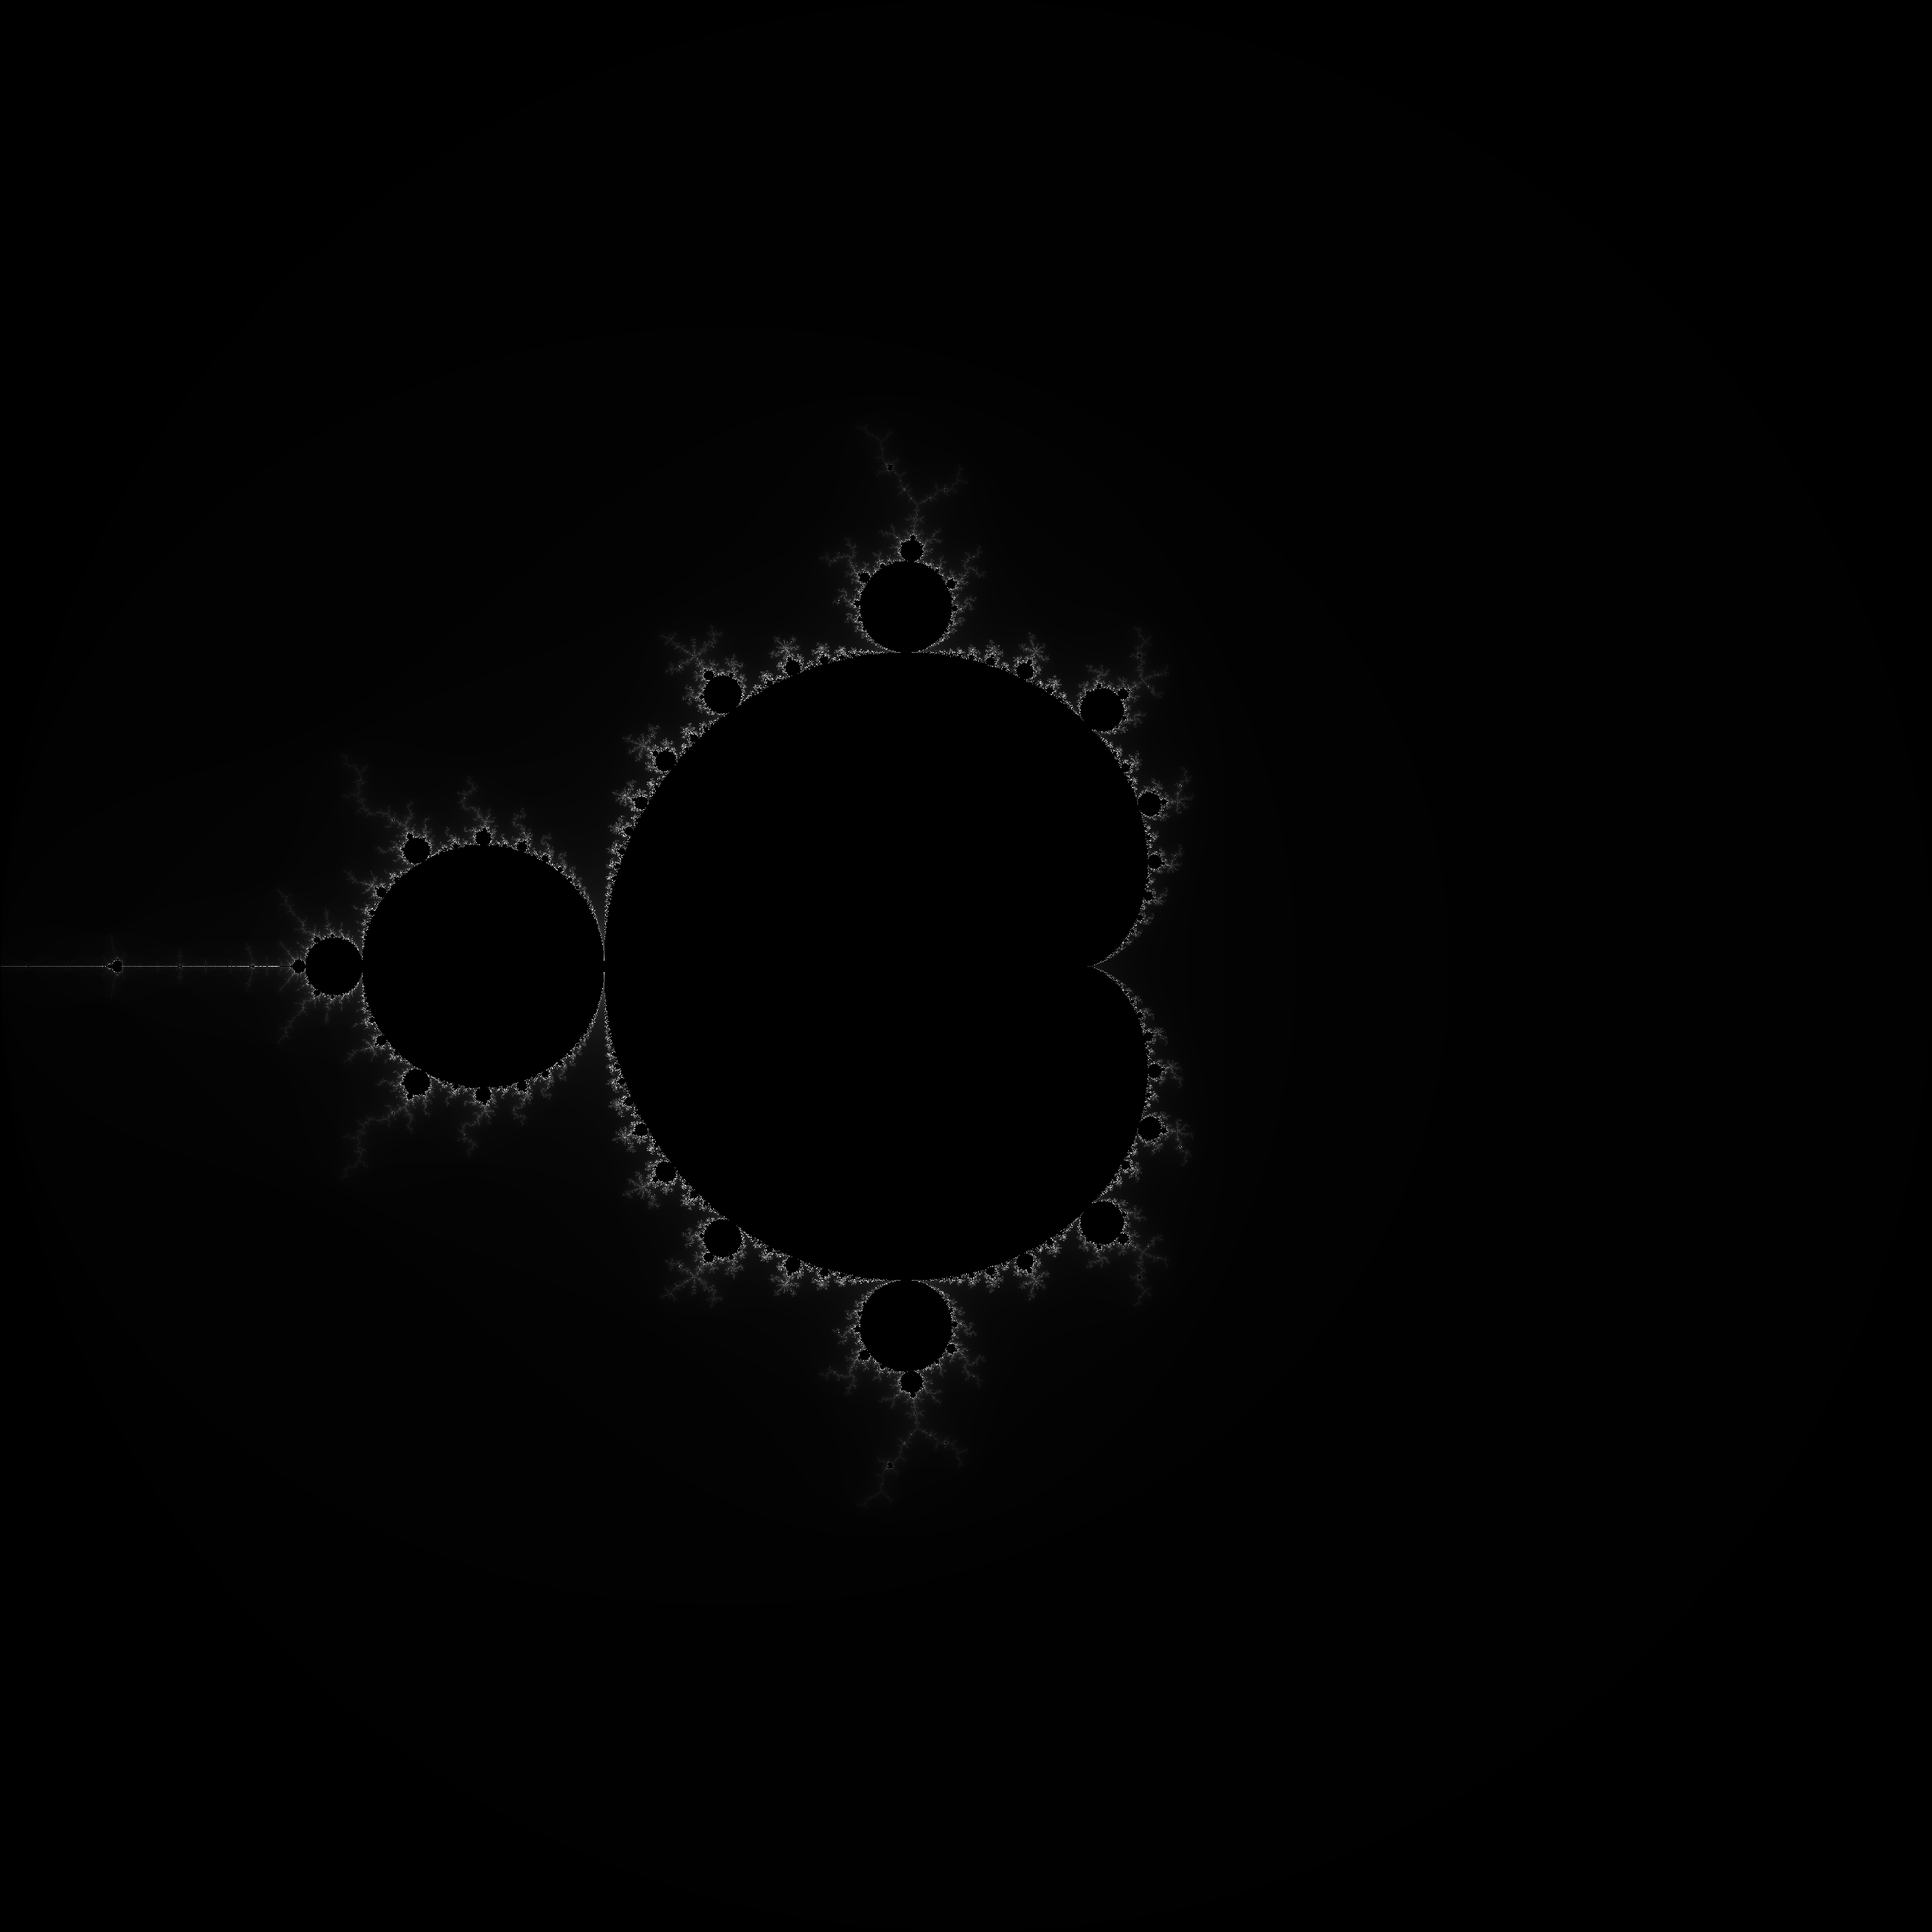
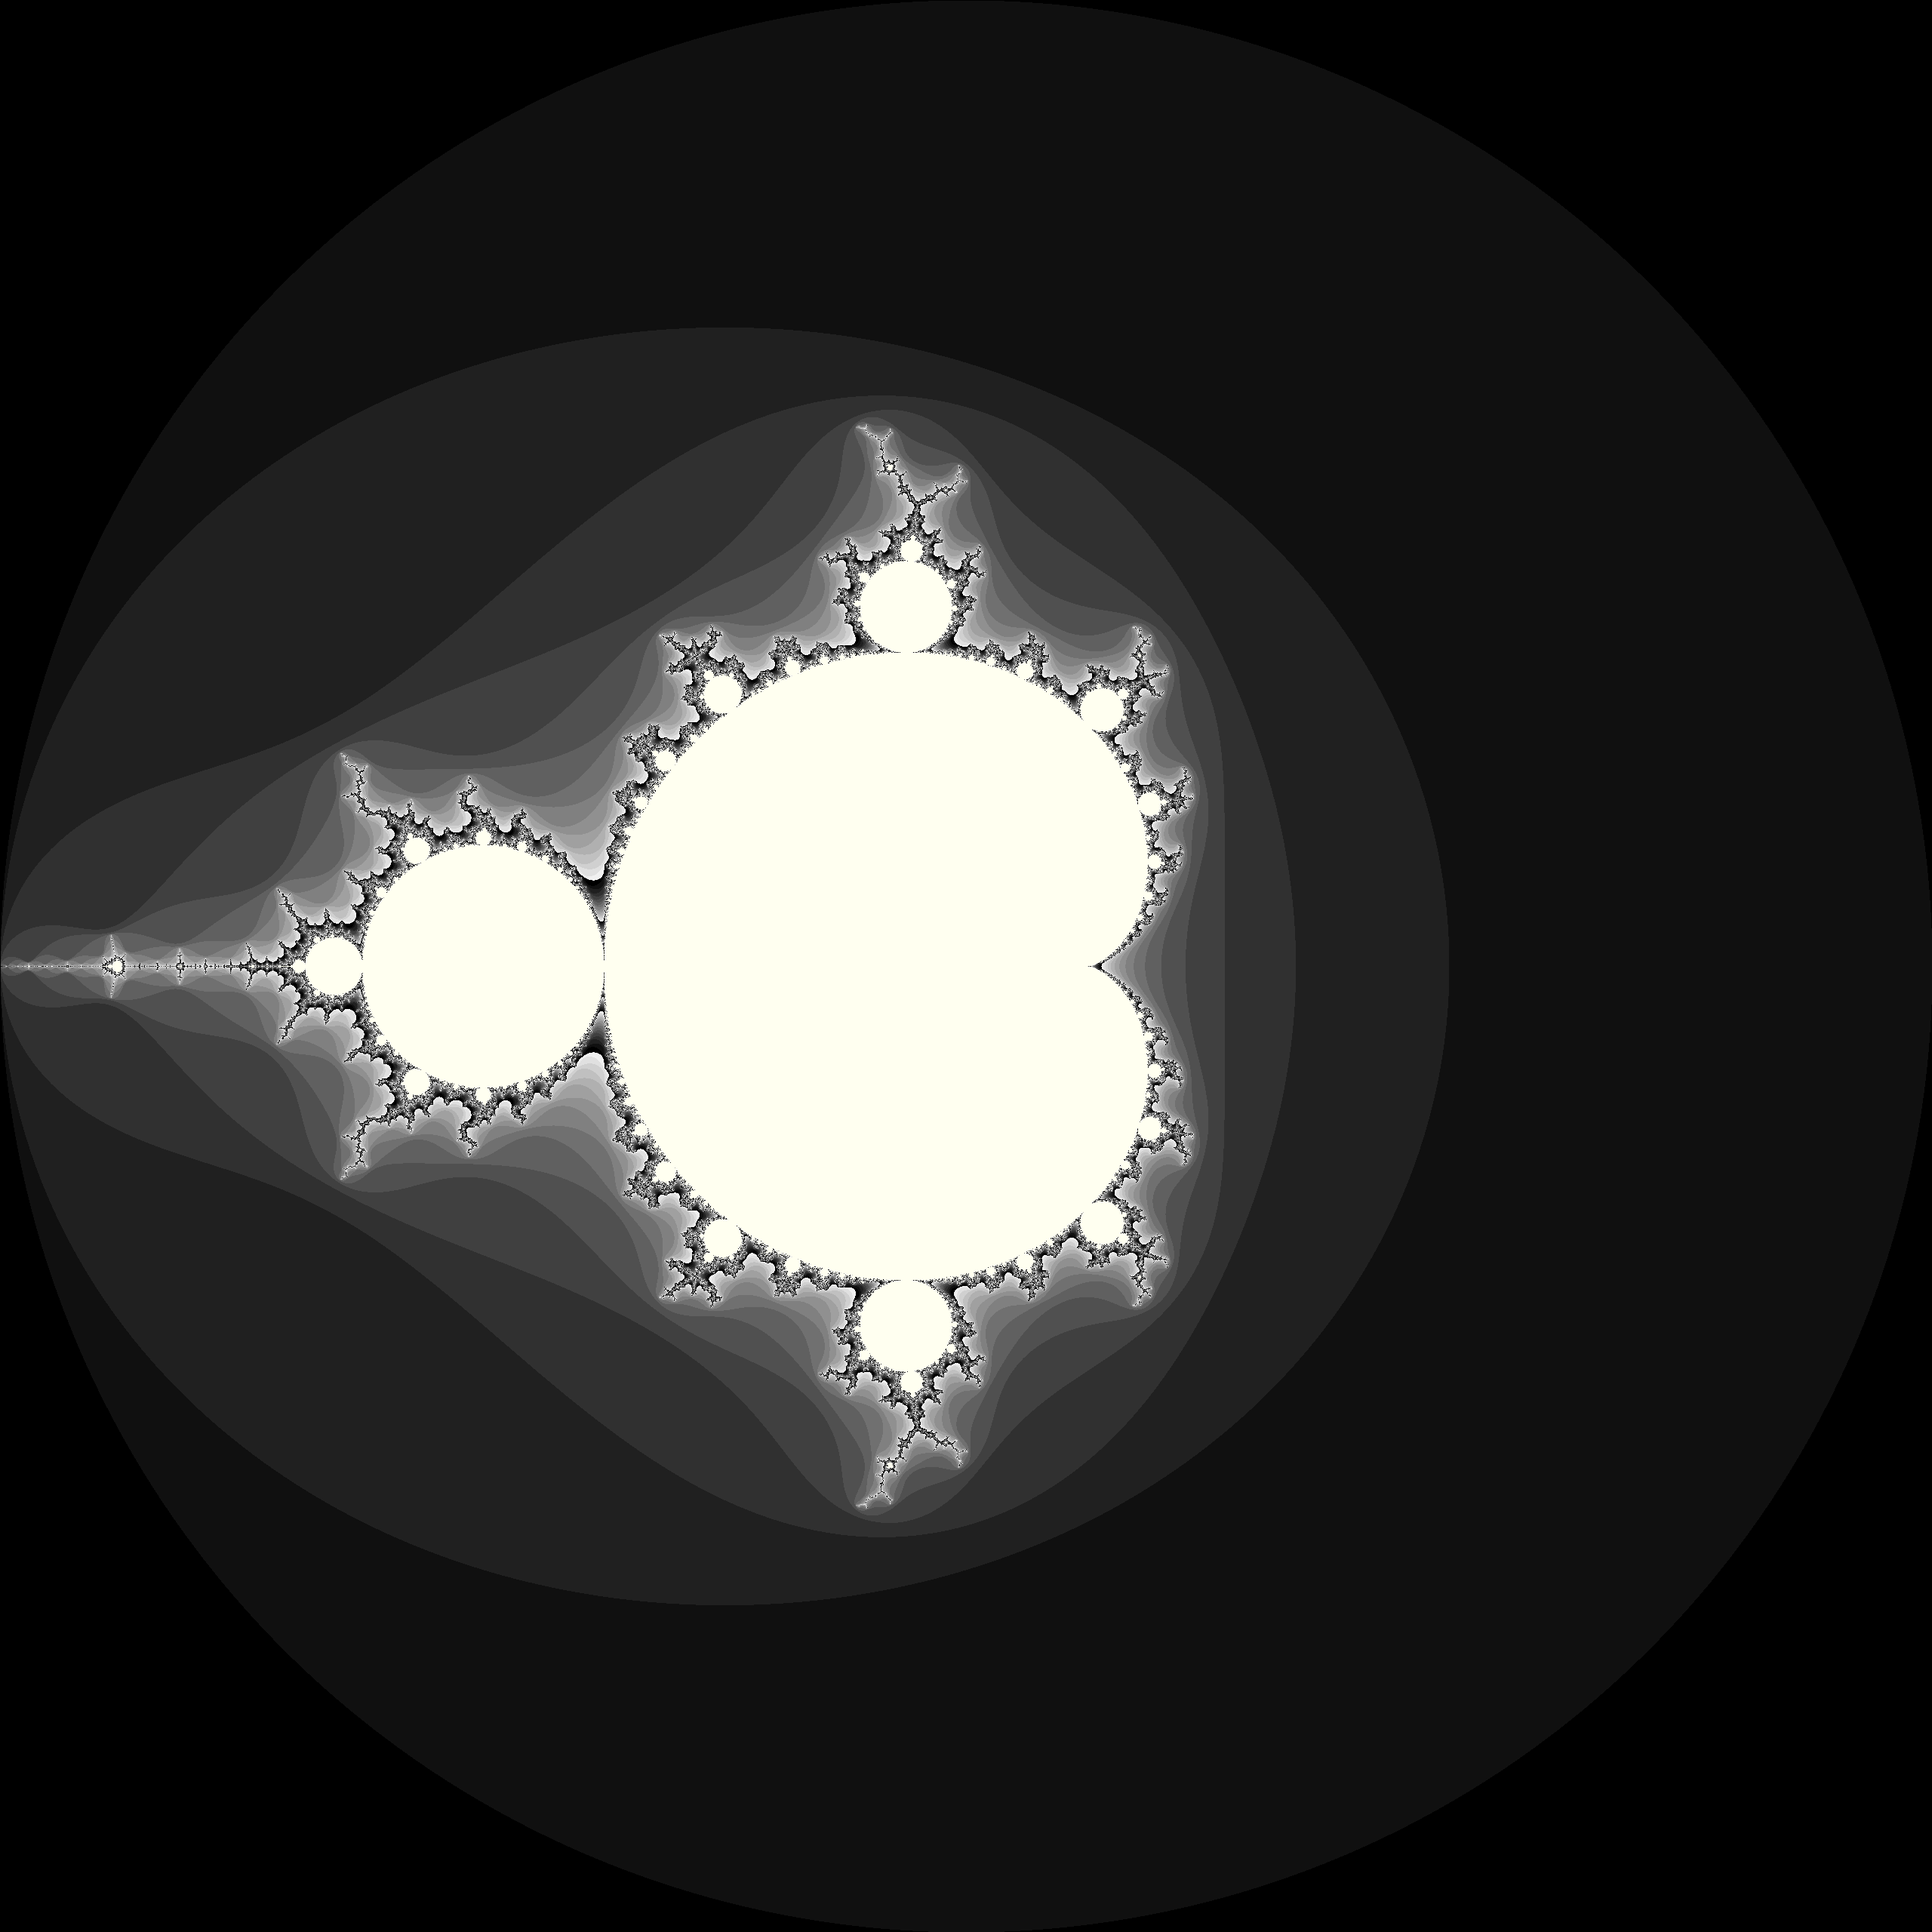
Added "Screenshot" function with better precision

diff --git a/MandelBrotSet/src/MandelBrot.java b/MandelBrotSet/src/MandelBrot.java
@@ -1,6 +1,14 @@
+import java.math.BigDecimal;
+import java.math.MathContext;
 import java.nio.ByteBuffer;
 import java.nio.DoubleBuffer;
 import java.nio.IntBuffer;
+import java.util.LinkedList;
+import java.util.concurrent.Callable;
+import java.util.concurrent.ExecutionException;
+import java.util.concurrent.ExecutorService;
+import java.util.concurrent.Executors;
+import java.util.concurrent.Future;
 
 import org.lwjgl.BufferUtils;
 import org.lwjgl.PointerBuffer;
@@ -16,6 +24,8 @@ public class MandelBrot {
 	private static long commandQueue;
 	private static long program;
 	private static long kernel;
+
+	public static MathContext mc = new MathContext(256);
 	
 	public static void setup(int width, int height) {
 		
@@ -116,6 +126,88 @@ public class MandelBrot {
 		buffer.get(pixels);
 		
 		return pixels;
+	}
+	
+	public static int[] calculateBig(int[] pixels, BigDecimal left, BigDecimal right, BigDecimal bottom, BigDecimal top, int calcDepth, int width, int height) {
+		
+		ExecutorService service = Executors.newFixedThreadPool(Runtime.getRuntime().availableProcessors()*2);
+		LinkedList<Future> futures = new LinkedList<Future>();
+		
+		for (int y = 0; y < height; y++) {
+			futures.add(service.submit(new LineCalculatorCallable(pixels, y, width, height, left, right, bottom, top, calcDepth)));
+		}
+		
+		while (!futures.isEmpty()) {
+			try {
+				futures.removeFirst().get();
+			} catch (InterruptedException | ExecutionException e) {
+				e.printStackTrace();
+			}
+		}
+		
+		System.out.println("Picture Rendered...");
+		
+		return pixels;
+	}
+}
+
+class LineCalculatorCallable implements Callable<Void> {
+	
+	BigDecimal left, right, top, bottom;
+	int calcDepth;
+	int width, height, y;
+	int[] pixels;
+	
+	
+	public LineCalculatorCallable(int[] pixels, int y, int width, int height, BigDecimal left, BigDecimal right, BigDecimal bottom, BigDecimal top, int calcDepth) {
+		this.left = left;
+		this.right = right;
+		this.top = top;
+		this.bottom = bottom;
+		this.calcDepth = calcDepth;
+		this.width = width;
+		this.height = height;
+		this.y = y;
+		this.pixels = pixels;
+	}
+	
+	@Override
+	public Void call() throws Exception {
+
+		BigDecimal stepX = right.subtract(left).divide(BigDecimal.valueOf(width), MandelBrot.mc);
+		BigDecimal stepY = top.subtract(bottom).divide(BigDecimal.valueOf(height), MandelBrot.mc);
+		
+		BigDecimal x0 = left;
+		BigDecimal y0 = bottom.add(stepY.multiply(BigDecimal.valueOf(y), MandelBrot.mc));
+		
+		
+		for (int x = 0; x < width; x++) {
+			BigComplexNumber state = new BigComplexNumber();
+			BigComplexNumber number = new BigComplexNumber(x0, y0);
+			
+			int value = -1;
+			
+			for (int i = 0; i < calcDepth; i++) {
+				state = state.multiply(state).add(number);
+				
+				if (state.absSq().compareTo(BigDecimal.valueOf(4)) > 0) {
+					value = i;
+					break;
+				}
+			}
+			
+			value = map(value, -1, calcDepth, 0, 255);
+			
+			pixels[y*width + x] = (0xFF << 24) | (value << 16) | (value << 8) | value;
+			
+			x0 = x0.add(stepX, MandelBrot.mc);
+		}
+		System.out.println("Progress: " + y + "/" + height);
+		return null;
+	}
+	
+	static int map(float value, float vstart, float vstop, float ostart, float ostop) {
+		return Math.round((value-vstart)/(vstop-vstart)*(ostop-ostart)+ostart);
 	}
 	
 }

diff --git a/MandelBrotSet/src/Main.java b/MandelBrotSet/src/Main.java
@@ -8,8 +8,13 @@ import java.awt.event.MouseMotionListener;
 import java.awt.event.MouseWheelEvent;
 import java.awt.event.MouseWheelListener;
 import java.awt.image.BufferedImage;
+import java.io.File;
+import java.io.IOException;
+import java.math.BigDecimal;
+import java.text.DecimalFormat;
 import java.util.LinkedList;
 
+import javax.imageio.ImageIO;
 import javax.swing.JFrame;
 
 public class Main {
@@ -72,6 +77,7 @@ public class Main {
 		frame.addKeyListener(keyListener);
 		update();
 		update();
+		
 	}
 	
 	BufferedImage getFramebuffer() {
@@ -251,6 +257,26 @@ public class Main {
 		}
 	}
 	
+	public void imageExport() {
+		int width = 3000;
+		int height = 3000;
+		
+		int[] pixels = new int[width*height];
+		
+		MandelBrot.calculateBig(pixels, BigDecimal.valueOf(borderLeft), BigDecimal.valueOf(borderRight), BigDecimal.valueOf(borderBottom), BigDecimal.valueOf(borderTop), 1000, width, height);
+		
+		BufferedImage out = new BufferedImage(width, height, BufferedImage.TYPE_INT_BGR);
+		out.setRGB(0, 0, width, height, pixels, 0, width);
+		System.out.println("Writing...");
+		try {
+			ImageIO.write(out, "png", new File("Mandelbrot-Zoom-out.png"));
+		} catch (IOException e) {
+			e.printStackTrace();
+		}
+		System.out.println("Done.");
+		
+	}
+	
 	
 	boolean pressed = false;
 	boolean scrolling = false;
@@ -278,6 +304,7 @@ public class Main {
 			case KeyEvent.VK_ADD: increaseDepth(); break;
 			case KeyEvent.VK_SUBTRACT: decreaseDepth(); break;
 			case KeyEvent.VK_R: reset(); break;
+			case KeyEvent.VK_P: imageExport(); break;
 			}
 		}
 		

diff --git a/MandelBrotSet/src/BigComplexNumber.java b/MandelBrotSet/src/BigComplexNumber.java
@@ -1,0 +1,35 @@
+import java.math.BigDecimal;
+
+public class BigComplexNumber {
+	
+	BigDecimal real;
+	BigDecimal imaginary;
+	
+	public BigComplexNumber() {
+		real = BigDecimal.ZERO;
+		imaginary = BigDecimal.ZERO;
+	}
+	
+	public BigComplexNumber(BigDecimal real, BigDecimal imaginary) {
+		this.real = real;
+		this.imaginary = imaginary;
+	}
+
+	public BigComplexNumber multiply(BigComplexNumber number) {
+		return new BigComplexNumber(real.multiply(number.real, MandelBrot.mc).subtract(imaginary.multiply(number.imaginary, MandelBrot.mc), MandelBrot.mc),
+				real.multiply(number.imaginary, MandelBrot.mc).add(imaginary.multiply(number.real, MandelBrot.mc), MandelBrot.mc));
+	}
+
+	public BigComplexNumber add(BigComplexNumber number) {
+		return new BigComplexNumber(real.add(number.real, MandelBrot.mc), imaginary.add(number.imaginary, MandelBrot.mc));
+	}
+
+	public BigDecimal absSq() {
+		return real.multiply(real, MandelBrot.mc).add(imaginary.multiply(imaginary, MandelBrot.mc), MandelBrot.mc);
+	}
+	
+	@Override
+	public String toString() {
+		return "(" + real + " + " + imaginary + "i)";
+	}
+}
